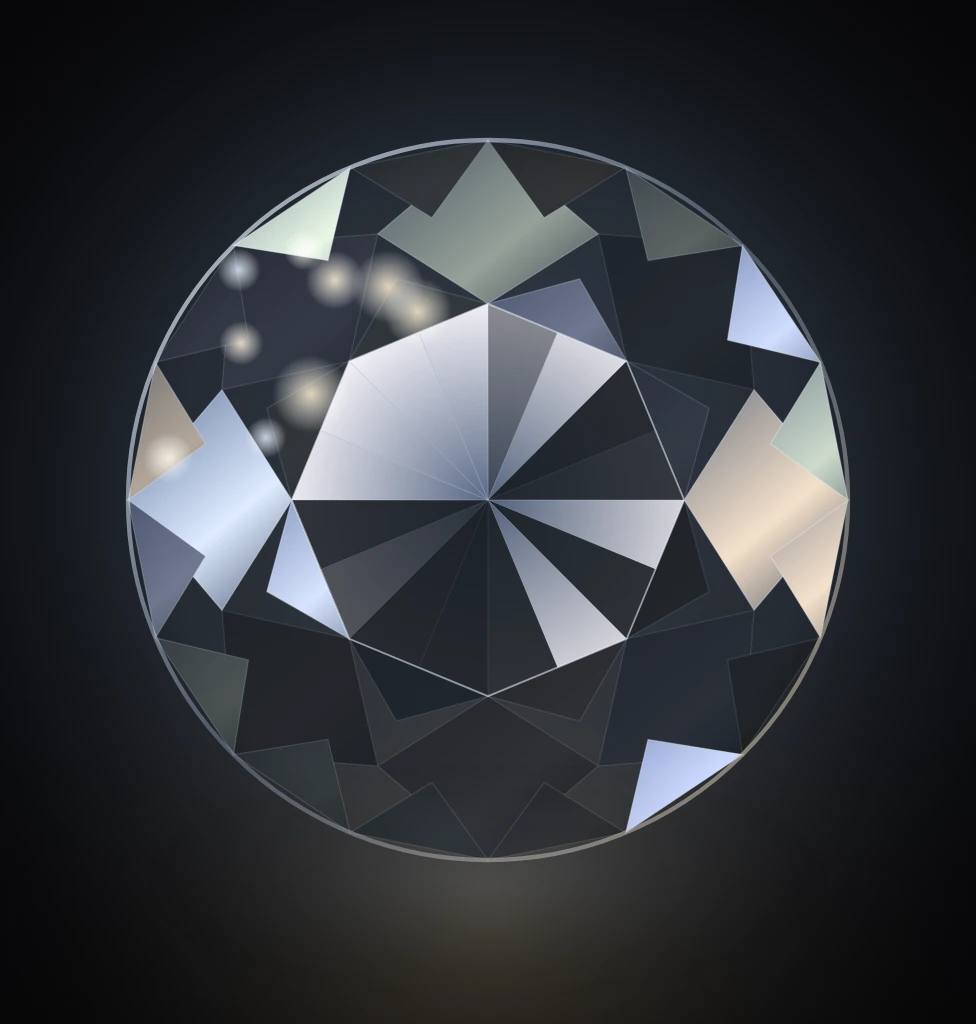
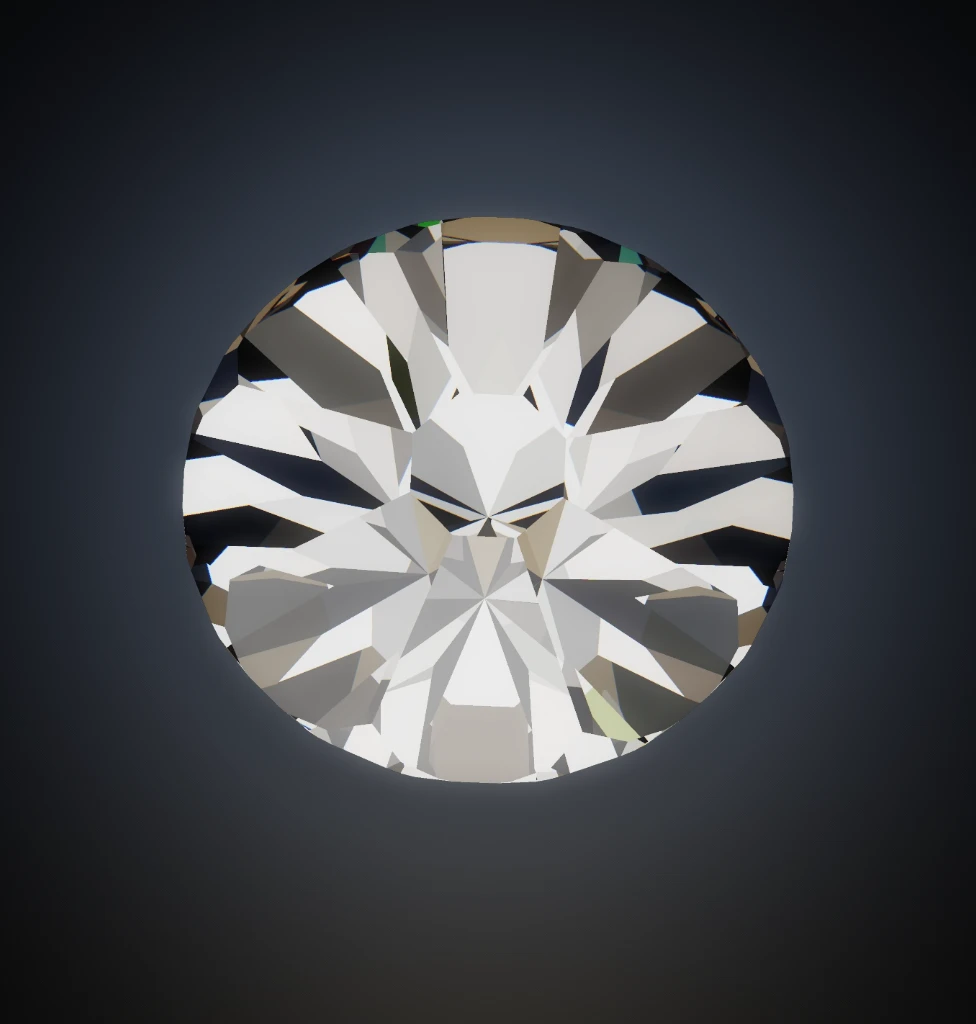
Trace the diamond for real, and give the whole site a room
A REAL STONE, NOT A DRAWING. The previous one was flat polygons with
gradients, which is why it read as a diagram. What makes a diamond look
like a diamond happens inside it, so this traces it: the gem is a convex
solid built from real facet planes — crown 34.5 degrees, pavilion 40.75,
table 56 per cent — and every pixel is a ray that takes the Fresnel
reflection off the crown, refracts in once per wavelength at diamond's
dispersion, bounces off the pavilion by total internal reflection until a
facet is shallow enough to let it out, and leaves into a studio
environment of one soft key, two strips and a warm bounce.

That is where the black facets beside blazing ones come from, and the
green and gold at the edges: nobody chose them, the geometry did. First
pass was blown to white because the lights were set for a tone map that
was not there; exposure came down and the stone appeared. Traced in the
browser's own canvas — no renderer, no 3D library, nothing added to the
project. 8.8 seconds for the hero view, 61 KB.

Two views, because they do different jobs: three-quarter for the hero, and
face-up on transparency for the pair that turn behind it. Face-up is the
one orientation where rotating a still image is honest, since a round
brilliant IS radially symmetric about that axis.

A ROOM FOR THE WHOLE SITE. AmbientField is a fixed layer behind every
page: two light masses drifting on clocks that do not divide into one
[…]

diff --git a/src/sections/home/Atelier.jsx b/src/sections/home/Atelier.jsx
@@ -12,15 +12,21 @@ import DotMatrix from '@/components/media/DotMatrix.jsx';
 /*
  * The house stone, drawn for this page rather than sourced.
  *
- * Real brilliant geometry — 58 facets, table at 54.5% of the girdle, eight-fold
- * symmetry — shaded from the same light direction the rest of the site uses.
- * It is an illustration and the caption says so; it is also the one view of a
- * brilliant that can honestly be turned, because a round brilliant IS radially
- * symmetric about this axis, which is what lets the background pair rotate
- * without pretending a flat picture has a back.
+ * Ray-traced, not drawn. Real brilliant geometry — 58 facets, crown 34.5
+ * degrees, pavilion 40.75, table 56% — and every pixel is a ray that refracts
+ * through the crown, bounces off the pavilion by total internal reflection and
+ * leaves into a studio environment, traced once per wavelength so the stone
+ * throws its own colour. It is a render and the caption says so.
+ *
+ * The turning pair behind the hero use the face-up trace, which is the one
+ * view a still image may honestly rotate: a round brilliant IS radially
+ * symmetric about that axis, so nothing hidden is being invented.
  */
 import diamondWide from '@/assets/diamonds/ngd-brilliant-figure-wide.webp';
 import diamondTall from '@/assets/diamonds/ngd-brilliant-figure-tall.webp';
+/* The same stone traced face-up on transparency: the pair that turn behind
+   the hero need no room around them, only the gem. */
+import diamondFace from '@/assets/diamonds/ngd-brilliant-traced-face.webp';
 
 import styles from './Atelier.module.css';
 
@@ -208,8 +214,8 @@ export default function Atelier() {
             different clocks so the pair never lines up into a pattern.
           */}
           <div className={styles.orbit} aria-hidden="true">
-            <img className={styles.orbitBig} src={diamondTall} alt="" width="976" height="1024" loading="lazy" decoding="async" />
-            <img className={styles.orbitSmall} src={diamondTall} alt="" width="976" height="1024" loading="lazy" decoding="async" />
+            <img className={styles.orbitBig} src={diamondFace} alt="" width="760" height="760" loading="lazy" decoding="async" />
+            <img className={styles.orbitSmall} src={diamondFace} alt="" width="760" height="760" loading="lazy" decoding="async" />
           </div>
 
           {/*
@@ -327,7 +333,7 @@ export default function Atelier() {
                   <img
                     className={styles.photo}
                     src={diamondWide}
-                    alt="An illustration of a round brilliant diamond seen face-up, its facets catching one light."
+                    alt="A round brilliant diamond, rendered: its facets catch a studio light and split it into colour."
                     width="1536"
                     height="1024"
                     loading="eager"
@@ -367,7 +373,7 @@ export default function Atelier() {
                   />
                 </svg>
               </div>
-              <figcaption className={styles.note}>Illustration · round brilliant, 58 facets</figcaption>
+              <figcaption className={styles.note}>Rendered · round brilliant, 58 facets</figcaption>
             </figure>
           </div>
         </div>

diff --git a/src/components/chrome/AmbientField.module.css b/src/components/chrome/AmbientField.module.css
@@ -1,0 +1,99 @@
+/*
+ * Behind everything, and it must stay there.
+ *
+ * z-index 0 on a fixed element with no stacking-context ancestor puts it under
+ * the page content, which all sits in the normal flow above it. It is never
+ * given a background of its own — only light — so whatever the theme sets on
+ * body still shows through and both themes work without a variant.
+ */
+.field {
+  position: fixed;
+  inset: 0;
+  z-index: 0;
+  pointer-events: none;
+  overflow: hidden;
+  /* Cheap on the compositor and impossible to interact with. */
+  contain: strict;
+}
+
+.field span {
+  position: absolute;
+  display: block;
+  border-radius: 50%;
+  filter: blur(120px);
+  will-change: transform;
+}
+
+/*
+ * Two masses on clocks that do not divide into one another — 71 and 97
+ * seconds — so the pair never returns to the same arrangement and the movement
+ * never reads as a loop.
+ */
+.driftA {
+  width: min(70vw, 60rem);
+  height: min(70vw, 60rem);
+  left: -18%;
+  top: -14%;
+  background: radial-gradient(closest-side, rgba(120, 148, 190, 0.16), transparent 70%);
+  animation: driftA 71s ease-in-out infinite;
+}
+
+.driftB {
+  width: min(60vw, 48rem);
+  height: min(60vw, 48rem);
+  right: -14%;
+  bottom: -18%;
+  background: radial-gradient(closest-side, rgba(189, 160, 106, 0.14), transparent 70%);
+  animation: driftB 97s ease-in-out infinite;
+}
+
+@keyframes driftA {
+  0%, 100% { transform: translate3d(0, 0, 0) scale(1); }
+  33%      { transform: translate3d(9vw, 6vh, 0) scale(1.12); }
+  66%      { transform: translate3d(-5vw, 11vh, 0) scale(0.94); }
+}
+
+@keyframes driftB {
+  0%, 100% { transform: translate3d(0, 0, 0) scale(1); }
+  40%      { transform: translate3d(-8vw, -7vh, 0) scale(1.1); }
+  75%      { transform: translate3d(4vw, -12vh, 0) scale(0.96); }
+}
+
+/*
+ * A faceted lattice, turning. Two crossed gradients at sixty degrees give the
+ * rhombic grid a brilliant's crown is set out on; the radial mask keeps it away
+ * from the edges so it reads as light on a surface rather than as wallpaper.
+ */
+.lattice {
+  inset: -40%;
+  width: auto;
+  height: auto;
+  border-radius: 0;
+  filter: none;
+  opacity: 0.5;
+  background-image:
+    repeating-linear-gradient(60deg, rgba(189, 160, 106, 0.05) 0 1px, transparent 1px 84px),
+    repeating-linear-gradient(-60deg, rgba(150, 178, 214, 0.045) 0 1px, transparent 1px 84px);
+  mask-image: radial-gradient(52% 46% at 50% 44%, #000 8%, transparent 72%);
+  -webkit-mask-image: radial-gradient(52% 46% at 50% 44%, #000 8%, transparent 72%);
+  animation: latticeTurn 260s linear infinite;
+}
+
+@keyframes latticeTurn {
+  from { rotate: 0deg; }
+  to   { rotate: 360deg; }
+}
+
+/* The light theme carries far less of it: on a pale ground the same values
+   read as smudges rather than as atmosphere. */
+:global([data-theme='light']) .driftA { background: radial-gradient(closest-side, rgba(90, 118, 165, 0.09), transparent 70%); }
+:global([data-theme='light']) .driftB { background: radial-gradient(closest-side, rgba(150, 122, 66, 0.08), transparent 70%); }
+:global([data-theme='light']) .lattice { opacity: 0.32; }
+
+@media (prefers-reduced-motion: reduce) {
+  .driftA,
+  .driftB,
+  .lattice {
+    animation: none;
+  }
+}

diff --git a/src/components/chrome/AmbientField.jsx b/src/components/chrome/AmbientField.jsx
@@ -1,0 +1,30 @@
+import styles from './AmbientField.module.css';
+
+/**
+ * The room the whole site sits in.
+ *
+ * A fixed layer behind every page: two very slow light masses that drift
+ * against each other, and a faint faceted lattice that turns once every few
+ * minutes. It is deliberately close to invisible — the test is that removing
+ * it should make the site feel flatter without anyone being able to say what
+ * changed.
+ *
+ * WHY IT IS SAFE TO HAVE ON EVERY PAGE. It is three elements and pure CSS: no
+ * script, no canvas, no scroll listener, nothing that can fail. `position:
+ * fixed` means it never grows the page, `pointer-events: none` means it can
+ * never take a click, and it is hidden from assistive technology entirely.
+ *
+ * WHAT IT MUST NOT DO. Compete. Every colour here is a hair off the page's own
+ * background, and the movement is measured in minutes, so it can never pull
+ * the eye away from a headline or a photograph. Under reduced motion it stops
+ * dead and stays as a still gradient.
+ */
+export default function AmbientField() {
+  return (
+    <div className={styles.field} aria-hidden="true">
+      <span className={styles.driftA} />
+      <span className={styles.driftB} />
+      <span className={styles.lattice} />
+    </div>
+  );
+}

diff --git a/src/App.jsx b/src/App.jsx
@@ -11,6 +11,7 @@ import Footer from '@/components/chrome/Footer.jsx';
 import Preloader from '@/components/chrome/Preloader.jsx';
 import SiteExperience from '@/components/chrome/SiteExperience.jsx';
 import SmoothScrollProvider from '@/providers/SmoothScrollProvider.jsx';
+import AmbientField from '@/components/chrome/AmbientField.jsx';
 import PageTransition from '@/components/chrome/PageTransition.jsx';
 import DiamondCursor from '@/components/cursor/DiamondCursor.jsx';
 import ContinueNext from '@/components/chrome/ContinueNext.jsx';
@@ -281,6 +282,10 @@ export default function App() {
       {/*
         The fixed diamond backdrop is gone.
         
+      {/* The room the whole site sits in: two slow light masses and a turning
+          lattice, fixed behind every page. Pure CSS, so it cannot fail, and it
+          stops entirely under reduced motion. */}
+      <AmbientField />
         It sat at 55% opacity behind every chapter — a single macro photograph
         blown across the whole viewport and blurred, which read as a grey smear
         rather than as atmosphere, and competed with the actual subject of each

diff --git a/src/sections/home/Chapter.module.css b/src/sections/home/Chapter.module.css
@@ -421,3 +421,35 @@
    */
   .wrap[data-flip]:has(.figure[data-wide]) { grid-template-columns: 1.15fr 0.85fr; }
 }
+
+/*
+ * ONE PASS OF LIGHT ACROSS THE PLATE, tied to the scroll rather than a timer.
+ *
+ * --sp runs 0..1 across the whole chapter, so the band crosses the card once
+ * as the chapter is read and is gone by the time the next one arrives. Driving
+ * it from the scroll instead of a loop means it can never sweep while the
+ * reader is sitting still, which is when a moving highlight becomes a
+ * distraction rather than a material.
+ */
+.frame::after {
+  content: '';
+  position: absolute;
+  inset: -30% -60%;
+  pointer-events: none;
+  z-index: 3;
+  mix-blend-mode: screen;
+  opacity: calc(1 - abs(var(--sp, 0) * 2 - 1));
+  background: linear-gradient(
+    108deg,
+    transparent 44%,
+    rgba(255, 250, 238, 0.09) 48%,
+    rgba(255, 250, 238, 0.22) 50%,
+    rgba(206, 222, 245, 0.09) 52%,
+    transparent 56%
+  );
+  transform: translate3d(calc(var(--sp, 0) * 128% - 64%), 0, 0);
+}
+
+@media (prefers-reduced-motion: reduce) {
+  .frame::after { display: none; }
+}
